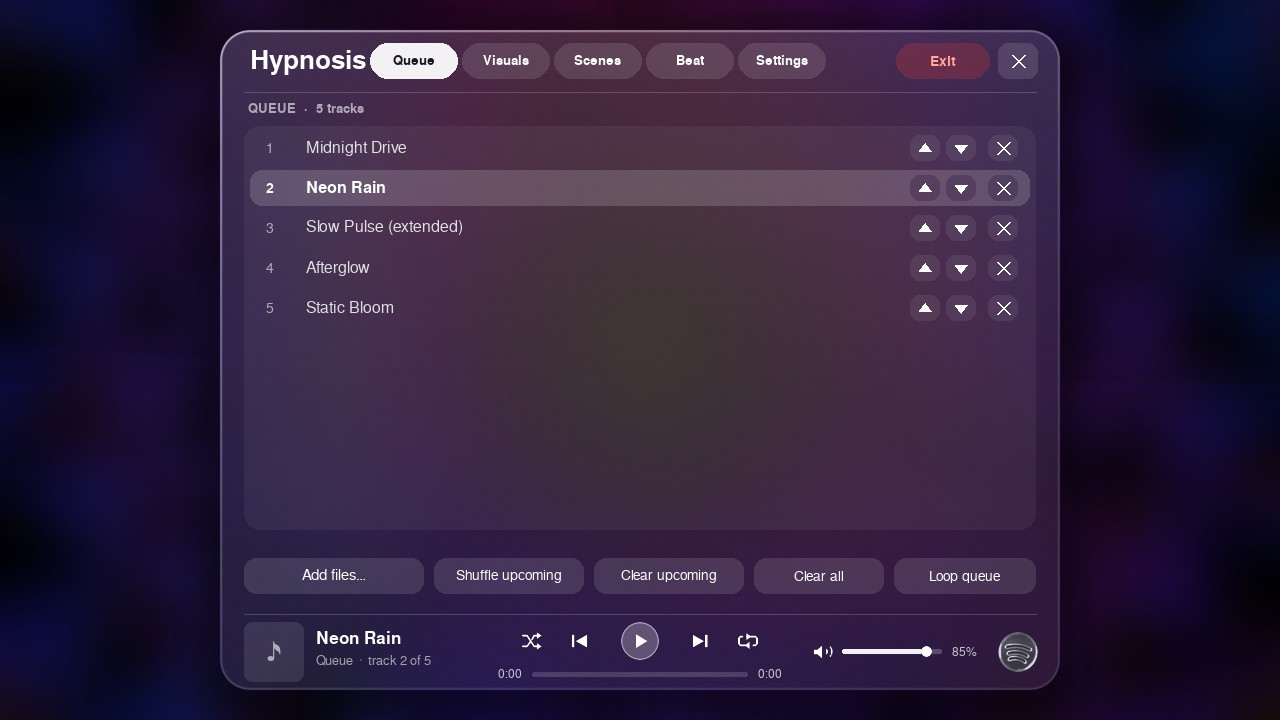
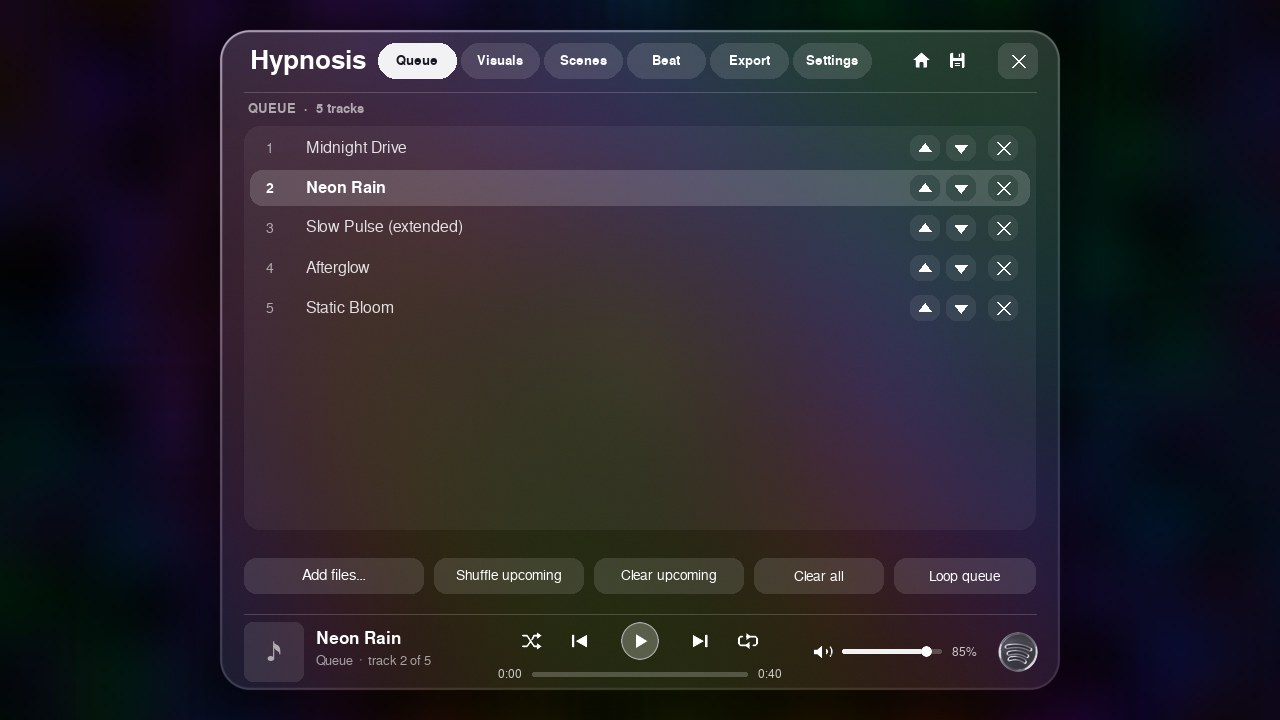
README: fully up to date for the latest version, with fresh screenshots
- New styles screenshot (all 18 styles), new Visuals / Motion / Media / Scenes / Settings / Beat / Spotify / Home / Queue shots with the current header and layout
- New Loading Scenes screenshot
- Document the header buttons, effect on/off dots, new defaults, row scrolling and the app icon

Claude-Session: https://claude.ai/code/session_01ABr8HgqdYpeepeAKMRx8GG

diff --git a/README.md b/README.md
@@ -2,9 +2,10 @@
 
 A trippy music visualizer for Windows. Drop in a song and a spiral reacts to the bass, kicks and snares. Drop in videos, GIFs or images and they blend into the visuals and change scene on the beat.
 
-![The visual styles: Classic, Neon, Kaleidoscope and Psychedelic](screenshots/styles.jpg)
+![All 18 visual styles](screenshots/styles.jpg)
+*The 18 styles, left to right and top to bottom: Media (the built-in example clip), Classic, Prism, Neon, Kaleidoscope, Psychedelic, Tunnel, Vortex, Plasma, Ripples, Synthwave, Warp, Honeycomb, Julia, Lava, Aurora, Sunburst and Smoke.*
 
-- 18 visual styles: Media (first), Classic, Prism, Neon, Kaleidoscope, Psychedelic, then Tunnel, Vortex, Plasma, Ripples, Synthwave, Warp, Honeycomb, Julia, Lava, Aurora, Sunburst and Smoke. Media is footage only (footage only; with an empty stack it plays a built-in example clip: a spinning 3D "VIDEO EXAMPLE" that bounces around like the DVD idle logo, over 5 different animated backgrounds that act as scenes, so every media effect, scene jump and transition shows without a real clip. The Media card in the style picker shows it too, including on hover. It disappears as soon as a real clip is added and comes back when the stack is empty again)
+- 18 visual styles: Media (first), Classic, Prism, Neon, Kaleidoscope, Psychedelic, then Tunnel, Vortex, Plasma, Ripples, Synthwave, Warp, Honeycomb, Julia, Lava, Aurora, Sunburst and Smoke. Media shows your footage only (with an empty stack it plays a built-in example clip: a spinning 3D "VIDEO EXAMPLE" that bounces around like the DVD idle logo, over 5 different animated backgrounds that act as scenes, so every media effect, scene jump and transition shows without a real clip. The Media card in the style picker shows it too, including on hover. It disappears as soon as a real clip is added and comes back when the stack is empty again)
 - Media layer: stack videos, GIFs and images; scene changes on the beat, kick or snare; optional smooth video (in-between frames) and camera sway
 - Scene manager: preview every detected scene in a clip, trim it, hide or delete the ones you don't want
 - A home screen with your saved projects (with snapshots), a missing-files check when you open one, and save / load in Settings
@@ -49,7 +50,7 @@ If something goes wrong, the console window stays open and shows the error. The 
 
 1. Run `run.bat`. You start on the **home screen**: open a saved project, start a new one, or drag music files onto the window.
 2. Drag a music file (mp3, wav, flac, ogg, m4a, aac, opus, ...) onto the window. Drag videos, GIFs or images on as well to add them to the media stack.
-3. Press **Esc** to open the glass menu. It fades in with a blur, and every page shares the player bar at the bottom.
+3. Press **Esc** to open the glass menu. It fades in with a blur, and every page shares the player bar at the bottom. The header has the tabs, a **home** button (back to the home screen) and a **save** button (save the project).
 
 ### Home screen and projects
 
@@ -84,7 +85,7 @@ The app opens on a glass **home screen**. It lists your recent projects as cards
 
 - *Visual style*: the style cards in one row. Scroll the row with the mouse wheel (over it) or drag the scroll bar under it (every list's scroll bar can be grabbed and dragged too: page, queue, scenes, media stack, projects); cards blur and fade at the row's edges as they scroll in and out. Hover a card and it plays a short looping demo of that style.
 - *Live preview*: a mirror of what's on screen. Scroll down and it blurs away, then blurs back in as a mini preview in the bottom left of the player bar (over the art and song name), so you can keep watching it while you edit the sliders below. Scroll back up and it hands itself back.
-- *Motion & effects*: spin, bass zoom, bass distortion, chromatic aberration, smoothing, colour drift, beat pulse (how hard the media layer pulses with the bass) and (only while Domination mode is on) the Domination text size / rate sliders. **Bass zoom style** picks how the Bass zoom slider moves the picture: **Centered zoom**, **Shaky zoom** (the zoom trembles, harder the further in it goes) or **Random area zoom** (each new bass swell glides the zoom toward a different spot on the screen). **Bass distortion style** picks what the Bass distortion slider (just under Bass zoom) does on every bass / kick hit: **Blur**, **Vibrate**, **Glitch** (the Domination banner's tearing, inverted bars and colour split, across the whole screen) or **Random** (a different one on each hit). The slider sets how strong it is and starts at 100% (0% turns it off). Every effect slider has a light on its left: click it to switch that effect off (the slider greys out and the effect counts as zero; Domination size / rate count as 100%) and click again to turn it back on. The Kaleidoscope zoom speed slider only shows while the Kaleidoscope style is selected. Under the **Media effects** heading are the media blend mode (spiral window, soft overlay, glow), beat-reactive opacity, kick/snare burst and flash, camera sway, scene change rate, transition style and **Smooth video**.
+- *Motion & effects*: spin, bass zoom, bass distortion, chromatic aberration, smoothing, colour drift, beat pulse (how hard the media layer pulses with the bass) and (only while Domination mode is on) the Domination text size / rate sliders. **Bass zoom style** picks how the Bass zoom slider moves the picture: **Centered zoom**, **Shaky zoom** (the zoom trembles, harder the further in it goes) or **Random area zoom** (each new bass swell glides the zoom toward a different spot on the screen). **Bass distortion style** picks what the Bass distortion slider (just under Bass zoom) does on every bass / kick hit: **Blur**, **Vibrate**, **Glitch** (the Domination banner's tearing, inverted bars and colour split, across the whole screen) or **Random** (a different one on each hit). The slider sets how strong it is and starts at 100% (0% turns it off). Every effect slider has a light on its left: click it to switch that effect off (the slider greys out and the effect counts as zero; Domination size / rate count as 100%) and click again to turn it back on. The Kaleidoscope zoom speed slider only shows while the Kaleidoscope style is selected. New projects start with Spin response 40%, Bass distortion 100%, Colour drift 300% and Scene change rate 30%. Under the **Media effects** heading are the media blend mode (spiral window, soft overlay, glow), beat-reactive opacity, kick/snare burst and flash, camera sway, scene change rate, transition style and **Smooth video**.
 - *Media & stack*: the current clip with **Add files...**, **Scenes...** and the **Media layer** on/off switch, plus the stack of every clip. Click a clip to jump to it.
 
 ![Visuals](screenshots/visuals.jpg)
@@ -100,6 +101,10 @@ The app opens on a glass **home screen**. It lists your recent projects as cards
 
 ![Scenes](screenshots/scenes.jpg)
 
+While a new video is scanned, the "Loading Scenes" cover takes over the screen:
+
+![The Loading Scenes cover](screenshots/loading.jpg)
+
 **Beat**: a live spectrum with the kick and snare bands. Tune the ranges and sensitivities until KICK and SNARE flash only on the real drums.
 
 ![Beat](screenshots/beat.jpg)
@@ -108,7 +113,7 @@ The app opens on a glass **home screen**. It lists your recent projects as cards
 
 ![Export](screenshots/export.jpg)
 
-**Settings**: the **Domination Mode** and **Spotify Mode** switches, display mode (windowed, borderless, exclusive fullscreen), help hints, remembering your media on startup, the Spotify sync delay, the **Project** box (**Save project**, **Save as...**, **Load project...**, **Home**), presets (save, update, delete) and **Reset all settings**. The keys are listed in a single line under the Project box and in the table below.
+**Settings**: the **Domination Mode** and **Spotify Mode** switches, display mode (windowed, borderless, exclusive fullscreen), help hints, remembering your media on startup, the Spotify sync delay, the **Project** box (**Save project**, **Save as...**, **Load project...**, **Home**), presets (save, update, delete) **Reset all settings** and **Clear all scene cache**. The keys are listed in a single line under the Project box and in the table below.
 
 ![Settings](screenshots/settings.jpg)
 
@@ -151,7 +156,7 @@ In Spotify Mode the player bar shows Spotify's song, artist and album art, and:
 | X | Hide the scene on screen (it never plays again; menu closed) |
 | Delete | Delete the scene on screen (menu closed) |
 | Z | Undo the last hide / delete (menu closed) |
-| Mouse wheel (menu > Visuals) | Scroll the page; Ctrl + wheel over a slider nudges it |
+| Mouse wheel (menu > Visuals) | Scroll the page; over the style cards it scrolls the row sideways; Ctrl + wheel over a slider nudges it |
 | D | Domination Mode |
 | S | Spotify Mode |
 | N / P | Next / previous track |
@@ -164,7 +169,7 @@ Your settings, presets, trims, hidden/deleted scenes, the recent-projects list a
 
 ## Building a standalone .exe
 
-Double-click `build_exe.bat`. When it finishes, the app is in `dist\Hypnosis\Hypnosis.exe`.
+Double-click `build_exe.bat` (the exe gets the spiral icon from `hypnosis_icon.ico`). When it finishes, the app is in `dist\Hypnosis\Hypnosis.exe`.
 
 Keep the whole `dist\Hypnosis` folder together: `Hypnosis.exe` needs the `_internal` folder next to it (and `spotify_icon.png`, which the build copies there). To share it, zip that folder. The people you share it with need **no** Python and no setup, they just unzip it and run `Hypnosis.exe`.
 
